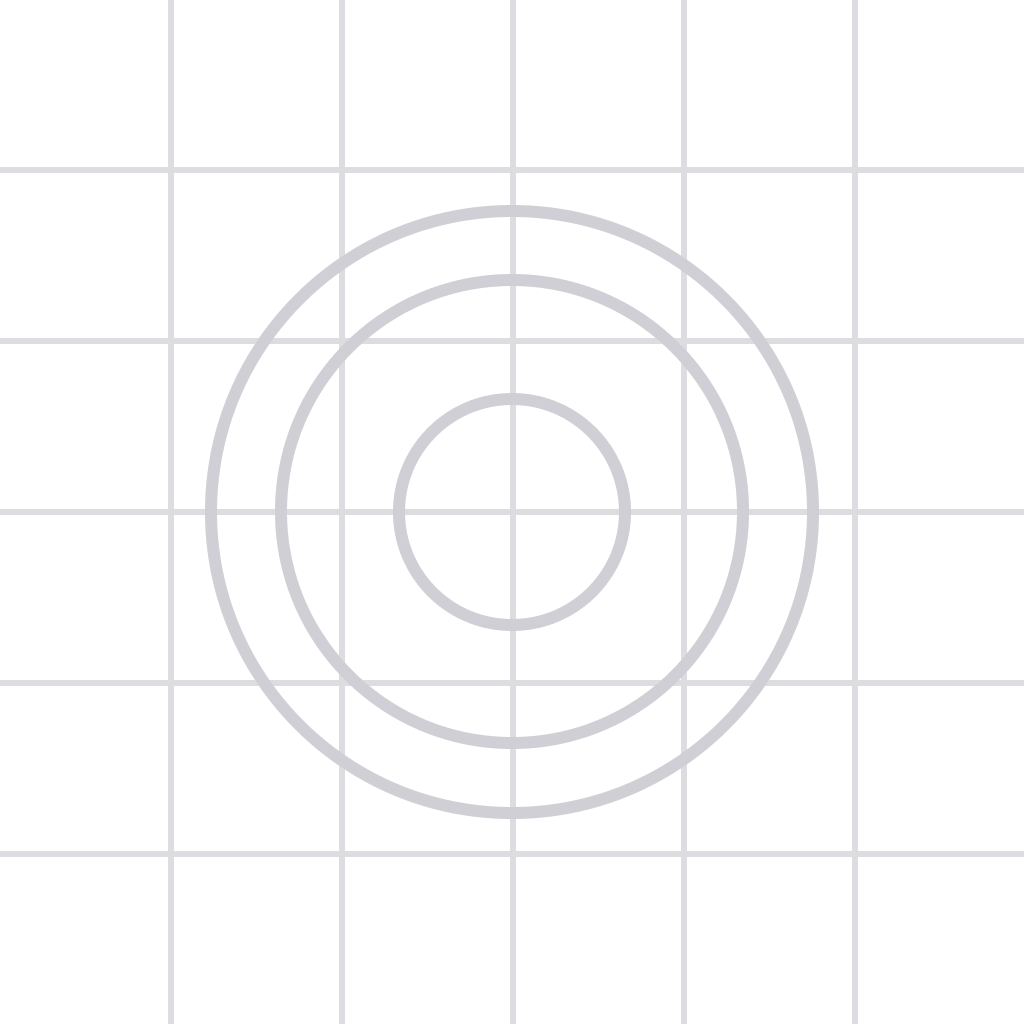
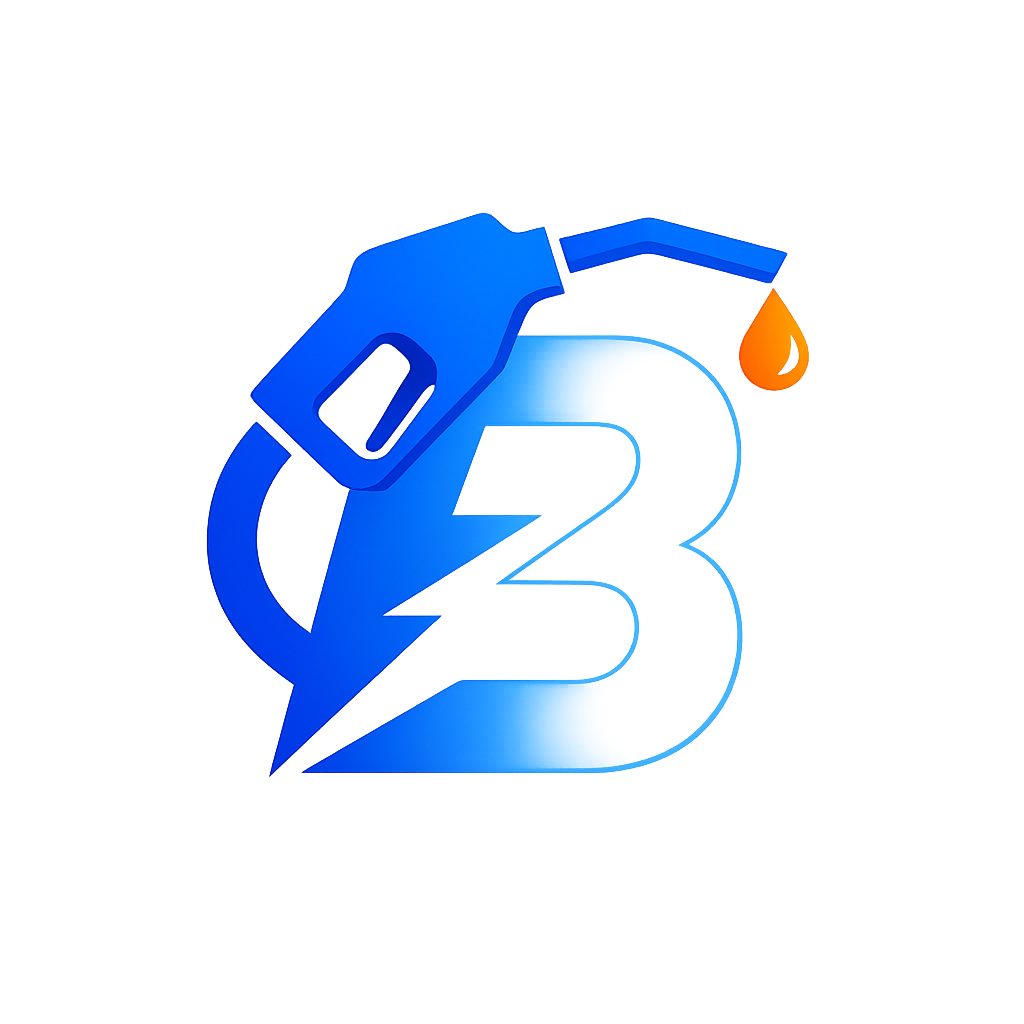
chore: clean up unused files, update web map compatibility, and improve README

Changed region(s): [[0.0, 0.0, 1.0, 1.0]]

diff --git a/app/(tabs)/settings.tsx b/app/(tabs)/settings.tsx
@@ -1,5 +1,5 @@
 import React, { useMemo } from 'react';
-import { View, Text, ScrollView, StyleSheet, TouchableOpacity, Switch, Alert } from 'react-native';
+import { View, Text, ScrollView, StyleSheet, TouchableOpacity, Switch, Alert, Modal } from 'react-native';
 import { Settings as SettingsIcon, FileText, Info, ShieldAlert, ChevronRight, Moon, LogOut } from 'lucide-react-native';
 import Header from '../../src/components/Header';
 import { useAppTheme } from '../../src/context/ThemeContext';
@@ -12,20 +12,73 @@ export default function SettingsScreen() {
   const { logout } = useAuth();
   const styles = useMemo(() => getStyles(colors), [colors]);
   const router = useRouter();
+  
+  const [modalVisible, setModalVisible] = React.useState(false);
+  const [modalTitle, setModalTitle] = React.useState('');
+  const [modalContent, setModalContent] = React.useState<React.ReactNode>(null);
 
-  const handleLogout = async () => {
-    try {
-      await logout();
-      router.replace('/(auth)/login');
-    } catch (error) {
-      Alert.alert('Logout Failed', 'Please try again.');
+  const confirmLogout = () => {
+    Alert.alert(
+      'Confirm Logout',
+      'Are you sure you want to log out of your account?',
+      [
+        { text: 'Cancel', style: 'cancel' },
+        { 
+          text: 'Logout', 
+          style: 'destructive',
+          onPress: async () => {
+            try {
+              await logout();
+              router.replace('/(auth)/login');
+            } catch (error) {
+              Alert.alert('Logout Failed', 'Please try again.');
+            }
+          }
+        },
+      ]
+    );
+  };
+
+  const openLegalModal = (title: string, type: 'terms' | 'privacy' | 'about') => {
+    setModalTitle(title);
+    
+    let content = null;
+    if (type === 'terms') {
+      content = (
+        <Text style={styles.modalText}>
+          Welcome to BANGIS. By using our application, you agree to these terms. {'\n\n'}
+          1. Use of Service: BANGIS provides real-time fuel tracking data. We do not guarantee the absolute accuracy of prices as they are subject to station changes.{'\n\n'}
+          2. User Accounts: You are responsible for maintaining the security of your account.{'\n\n'}
+          3. Fair Use: Do not misuse the application or attempt to overload our servers.
+        </Text>
+      );
+    } else if (type === 'privacy') {
+      content = (
+        <Text style={styles.modalText}>
+          Your privacy is important to us.{'\n\n'}
+          1. Data Collection: We collect basic profile information (email, name, avatar) for account functionality.{'\n\n'}
+          2. Location Data: We request your GPS location solely to provide accurate distance metrics to fuel stations. We do not track your location in the background.{'\n\n'}
+          3. Data Security: Your data is securely stored on Firebase.
+        </Text>
+      );
+    } else if (type === 'about') {
+      content = (
+        <Text style={styles.modalText}>
+          BANGIS (Bacolod Advanced Network for Gas and Information System){'\n\n'}
+          BANGIS was created to help drivers in Bacolod City easily track, compare, and find the cheapest fuel prices in real-time. Our automated systems gather prices directly from reliable market trackers so you never overpay for gas again.{'\n\n'}
+          Version: 1.0.0
+        </Text>
+      );
     }
+    
+    setModalContent(content);
+    setModalVisible(true);
   };
 
   const settingsItems = [
-    { icon: FileText, title: 'Terms & Conditions', color: colors.primary },
-    { icon: ShieldAlert, title: 'Privacy Policy', color: colors.accent },
-    { icon: Info, title: 'About BANGIS', color: colors.success },
+    { icon: FileText, title: 'Terms & Conditions', color: colors.primary, type: 'terms' },
+    { icon: ShieldAlert, title: 'Privacy Policy', color: colors.accent, type: 'privacy' },
+    { icon: Info, title: 'About BANGIS', color: colors.success, type: 'about' },
   ];
 
   return (
@@ -61,6 +114,7 @@ export default function SettingsScreen() {
               <TouchableOpacity
                 key={index}
                 style={[styles.menuItem, index !== settingsItems.length - 1 && styles.menuItemBorder]}
+                onPress={() => openLegalModal(item.title, item.type as any)}
               >
                 <View style={styles.menuItemLeft}>
                   <View style={[styles.menuIconBox, { backgroundColor: item.color + '10' }]}>
@@ -75,16 +129,13 @@ export default function SettingsScreen() {
         </View>
 
         <View style={styles.logoutContainer}>
-          <Button
-            onPress={handleLogout}
-            variant="danger"
-            fullWidth
-            style={styles.logoutBtn}
-            textStyle={styles.logoutBtnText}
+          <TouchableOpacity
+            onPress={confirmLogout}
+            style={[styles.logoutBtn, { flexDirection: 'row', alignItems: 'center', justifyContent: 'center' }]}
           >
             <LogOut size={20} color={colors.danger} style={{ marginRight: 8 }} />
-            LOGOUT
-          </Button>
+            <Text style={styles.logoutBtnText}>LOGOUT</Text>
+          </TouchableOpacity>
         </View>
 
         <View style={styles.footerInfo}>
@@ -93,6 +144,29 @@ export default function SettingsScreen() {
         </View>
 
       </ScrollView>
+
+      {/* Modal for Legal/Info */}
+      <Modal
+        visible={modalVisible}
+        transparent={true}
+        animationType="slide"
+        onRequestClose={() => setModalVisible(false)}
+      >
+        <View style={styles.modalOverlay}>
+          <View style={styles.modalContent}>
+            <Text style={styles.modalTitle}>{modalTitle}</Text>
+            <ScrollView style={styles.modalScroll}>
+              {modalContent}
+            </ScrollView>
+            <TouchableOpacity 
+              style={[styles.closeModalBtn, { backgroundColor: colors.primary }]} 
+              onPress={() => setModalVisible(false)}
+            >
+              <Text style={styles.closeModalText}>Close</Text>
+            </TouchableOpacity>
+          </View>
+        </View>
+      </Modal>
     </View>
   );
 }
@@ -174,10 +248,48 @@ const getStyles = (colors: any) => StyleSheet.create({
     backgroundColor: colors.danger + '10',
     borderWidth: 1,
     borderColor: colors.danger + '30',
+    paddingVertical: 16,
+    borderRadius: 24,
   },
   logoutBtnText: {
     color: colors.danger,
     fontWeight: '900',
     letterSpacing: 2,
+  },
+  modalOverlay: {
+    flex: 1,
+    backgroundColor: 'rgba(0,0,0,0.6)',
+    justifyContent: 'center',
+    padding: 24,
+  },
+  modalContent: {
+    backgroundColor: colors.bgWhite,
+    borderRadius: 24,
+    padding: 24,
+    maxHeight: '80%',
+  },
+  modalTitle: {
+    fontSize: 20,
+    fontWeight: 'bold',
+    color: colors.textPrimary,
+    marginBottom: 16,
+  },
+  modalScroll: {
+    marginBottom: 24,
+  },
+  modalText: {
+    fontSize: 15,
+    lineHeight: 24,
+    color: colors.textSecondary,
+  },
+  closeModalBtn: {
+    paddingVertical: 16,
+    borderRadius: 16,
+    alignItems: 'center',
+  },
+  closeModalText: {
+    color: 'white',
+    fontWeight: 'bold',
+    fontSize: 16,
   },
 });

diff --git a/src/components/OpenStreetMap.tsx b/src/components/OpenStreetMap.tsx
@@ -96,7 +96,12 @@ function buildMapHtml(isDark: boolean) {
         });
         const m = L.marker([s.lat, s.lng], { icon: icon });
         m.on('click', function() {
-          window.ReactNativeWebView.postMessage(JSON.stringify({ type: 'stationPress', id: s.id }));
+          var msg = JSON.stringify({ type: 'stationPress', id: s.id });
+          if (window.ReactNativeWebView) {
+            window.ReactNativeWebView.postMessage(msg);
+          } else if (window.parent) {
+            window.parent.postMessage(msg, '*');
+          }
         });
         markersLayer.addLayer(m);
       });
@@ -168,14 +173,21 @@ const OpenStreetMap = React.forwardRef<OpenStreetMapHandle, Props>(function Open
   { style, stations, userLocation, routePoints, isDark = false, onStationPress },
   ref
 ) {
-  const webRef = useRef<WebView>(null);
+  const webRef = useRef<any>(null);
   const html = useMemo(() => buildMapHtml(isDark), [isDark]);
   const ready = useRef(false);
   const prevStationsStr = useRef('');
 
   const post = useCallback((payload: object) => {
     if (!webRef.current) return;
-    webRef.current.postMessage(JSON.stringify(payload));
+    const msg = JSON.stringify(payload);
+    if (Platform.OS === 'web') {
+      if (webRef.current.contentWindow) {
+        webRef.current.contentWindow.postMessage(msg, '*');
+      }
+    } else {
+      webRef.current.postMessage(msg);
+    }
   }, []);
 
   const handleLoadEnd = useCallback(() => {
@@ -219,6 +231,32 @@ const OpenStreetMap = React.forwardRef<OpenStreetMapHandle, Props>(function Open
       }
     } catch (_) {}
   };
+
+  useEffect(() => {
+    if (Platform.OS === 'web') {
+      const handleWebMessage = (event: MessageEvent) => {
+        try {
+          const data = typeof event.data === 'string' ? JSON.parse(event.data) : event.data;
+          if (data && data.type === 'stationPress' && data.id) {
+            onStationPress?.(data.id);
+          }
+        } catch (_) {}
+      };
+      window.addEventListener('message', handleWebMessage);
+      return () => window.removeEventListener('message', handleWebMessage);
+    }
+  }, [onStationPress]);
+
+  if (Platform.OS === 'web') {
+    return (
+      <iframe
+        ref={webRef}
+        style={{ width: '100%', height: '100%', border: 'none', ...(style as any) }}
+        srcDoc={html}
+        onLoad={handleLoadEnd}
+      />
+    );
+  }
 
   return (
     <WebView

diff --git a/app/(tabs)/index.tsx b/app/(tabs)/index.tsx
@@ -1,5 +1,5 @@
 import React, { useState, useMemo, useEffect, useRef } from 'react';
-import { View, Text, TextInput, TouchableOpacity, ScrollView, StyleSheet, Modal, Image, FlatList, Linking } from 'react-native';
+import { View, Text, TextInput, TouchableOpacity, ScrollView, StyleSheet, Modal, Image, FlatList, Linking, Platform } from 'react-native';
 import { Search as SearchIcon, Navigation, Fuel, ArrowLeft, Clock, Coffee, CreditCard, Wind, ShieldCheck, MapPin, Info } from 'lucide-react-native';
 import Header from '../../src/components/Header';
 import OpenStreetMap, { OpenStreetMapHandle } from '../../src/components/OpenStreetMap';
@@ -10,7 +10,7 @@ import { useFuelData } from '../../src/context/FuelContext';
 import { useAppTheme } from '../../src/context/ThemeContext';
 import { useLocalSearchParams } from 'expo-router';
 
-const DEFAULT_LOCATION = { latitude: 14.5995, longitude: 120.9842 };
+const DEFAULT_LOCATION = { latitude: 10.6690464, longitude: 122.9569778 }; // STI West Negros University Front Building, Burgos Ave
 
 export default function HomeScreen() {
   const { colors } = useAppTheme();
@@ -121,6 +121,11 @@ export default function HomeScreen() {
 
   const handleLocateMe = async () => {
     try {
+      if (Platform.OS === 'web') {
+        setUserLocation(DEFAULT_LOCATION);
+        mapRef.current?.flyTo(DEFAULT_LOCATION.latitude, DEFAULT_LOCATION.longitude, 14);
+        return;
+      }
       const { status } = await Location.requestForegroundPermissionsAsync();
       if (status !== 'granted') {
         setLocationPermissionDenied(true);
@@ -179,6 +184,10 @@ export default function HomeScreen() {
     }
 
     try {
+      if (Platform.OS === 'web') {
+        setUserLocation(DEFAULT_LOCATION);
+        return;
+      }
       locationSub.current = await Location.watchPositionAsync(
         {
           accuracy: Location.Accuracy.High,

diff --git a/README.md b/README.md
@@ -1,20 +1,59 @@
-<div align="center">
-<img width="1200" height="475" alt="GHBanner" src="https://ai.google.dev/static/site-assets/images/share-ais-513315318.png" />
-</div>
+# ⛽ BANGIS (Bacolod Advanced Network for Gas and Information System)
 
-# Run and deploy your AI Studio app
+![React Native](https://img.shields.io/badge/React_Native-20232A?style=for-the-badge&logo=react&logoColor=61DAFB)
+![Expo](https://img.shields.io/badge/Expo-1B1F23?style=for-the-badge&logo=expo&logoColor=white)
+![Firebase](https://img.shields.io/badge/firebase-ffca28?style=for-the-badge&logo=firebase&logoColor=black)
 
-This contains everything you need to run your app locally.
+BANGIS is a capstone project designed to help motorists in Bacolod City efficiently locate the most cost-effective fuel stations. By deploying an automated data aggregation engine (scraper) coupled with a cross-platform geolocation app, BANGIS provides users with real-time pricing for Gasoline, Diesel, and Premium fuels, alongside dynamic navigation to the cheapest and nearest stations.
 
-View your app in AI Studio: https://ai.studio/apps/2bfb30ab-39bf-4092-8c85-4919d2a1bfb6
+## 🌟 Key Features
+- **Real-Time Price Tracking**: Automatically scrapes and standardizes fuel prices from reliable regional fuel trackers.
+- **Interactive Map Visualization**: Displays fuel stations on a color-coded map, pinpointing the cheapest and most expensive locations using OpenStreetMap.
+- **Intelligent Routing**: Integrates routing algorithms to calculate the most cost-effective travel paths for users based on their location and the fuel price.
+- **Cross-Platform**: Built with React Native and Expo, supporting both Android and Web platforms.
 
-## Run Locally
+## 🎯 Objectives
+1. **Collection**: To develop a backend web scraping architecture that extracts and standardizes fuel prices automatically.
+2. **Development**: To design an interactive mobile application visualizing stations with color-coded indicators.
+3. **Integration**: To integrate geolocation APIs and routing algorithms for cost-effective navigation.
+4. **Evaluation**: To evaluate system performance and user acceptability based on ISO/IEC 25010 software quality standards.
 
-**Prerequisites:**  Node.js
+## 🛠️ Technology Stack
+- **Frontend**: React Native, Expo, Expo Router
+- **Maps & Routing**: OpenStreetMap, Leaflet (rendered via WebView and conditional iframes for web support)
+- **Backend / Database**: Firebase Firestore
+- **Icons**: Lucide React Native
 
+## 🚀 Getting Started
 
-1. Install dependencies:
-   `npm install`
-2. Set the `GEMINI_API_KEY` in [.env.local](.env.local) to your Gemini API key
-3. Run the app:
-   `npm run dev`
+### Prerequisites
+- Node.js installed on your machine.
+- Expo CLI or `npx` available.
+
+### Installation
+
+1. Install all dependencies:
+   ```bash
+   npm install
+   ```
+
+2. Start the development server:
+   ```bash
+   npm start
+   ```
+
+3. **Run on Android**: 
+   Use the Expo Go app on your phone to scan the QR code, or press `a` in the terminal to launch an Android Emulator.
+   ```bash
+   npm run android
+   ```
+
+4. **Run on Web**: 
+   Press `w` in the terminal, or run the web script directly:
+   ```bash
+   npm run web
+   ```
+   *Note: On the web platform, the location defaults to the STI West Negros University main gate for testing purposes.*
+
+## 📝 License
+Developed as a capstone project for STI West Negros University.